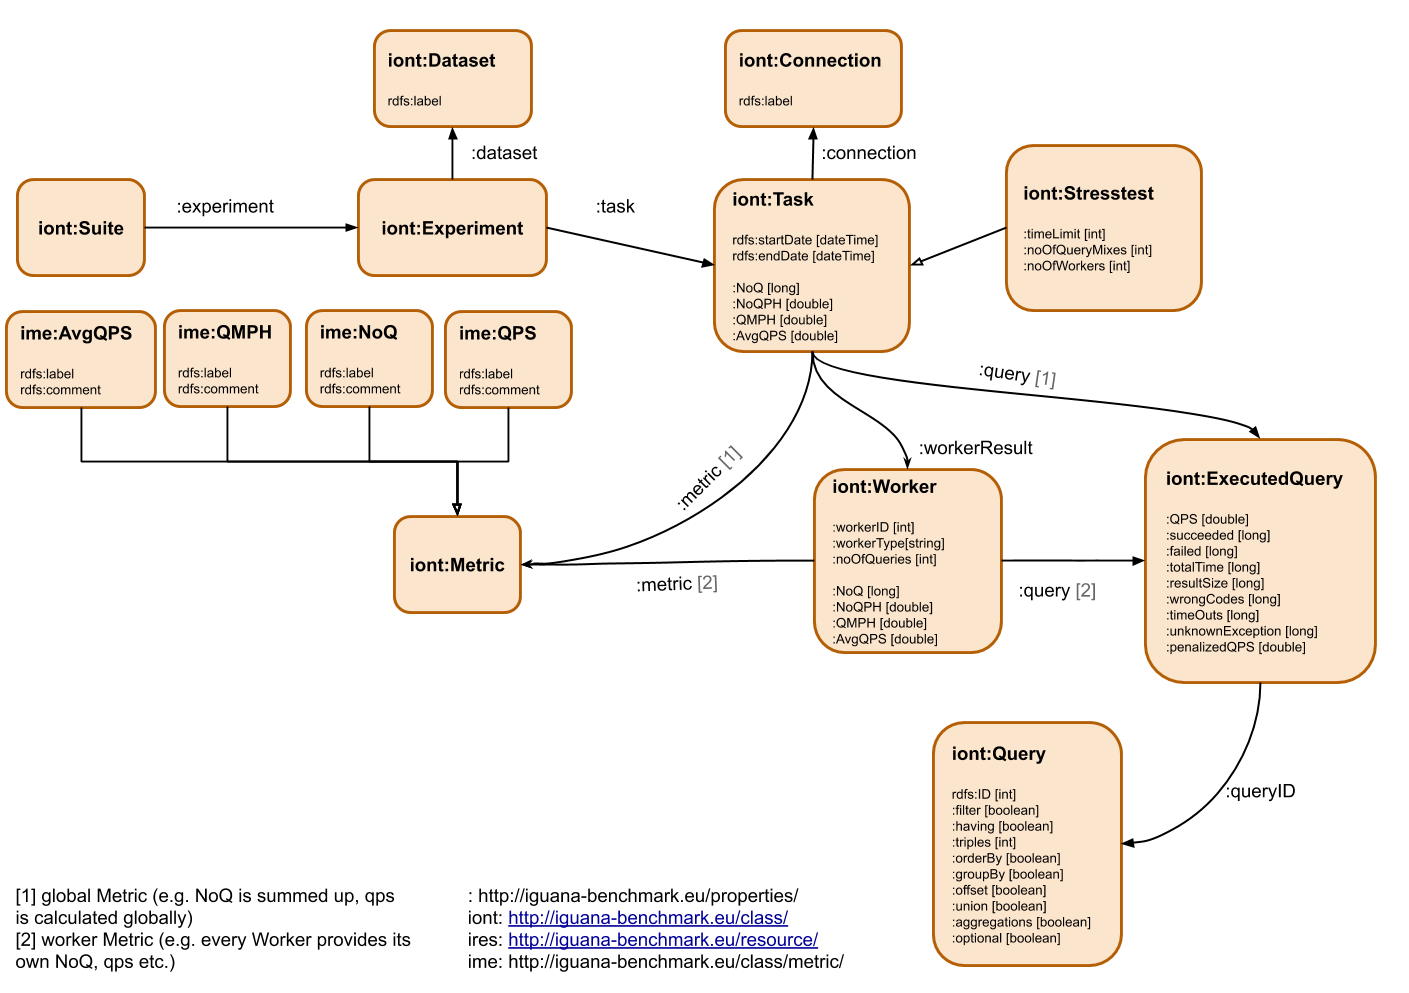
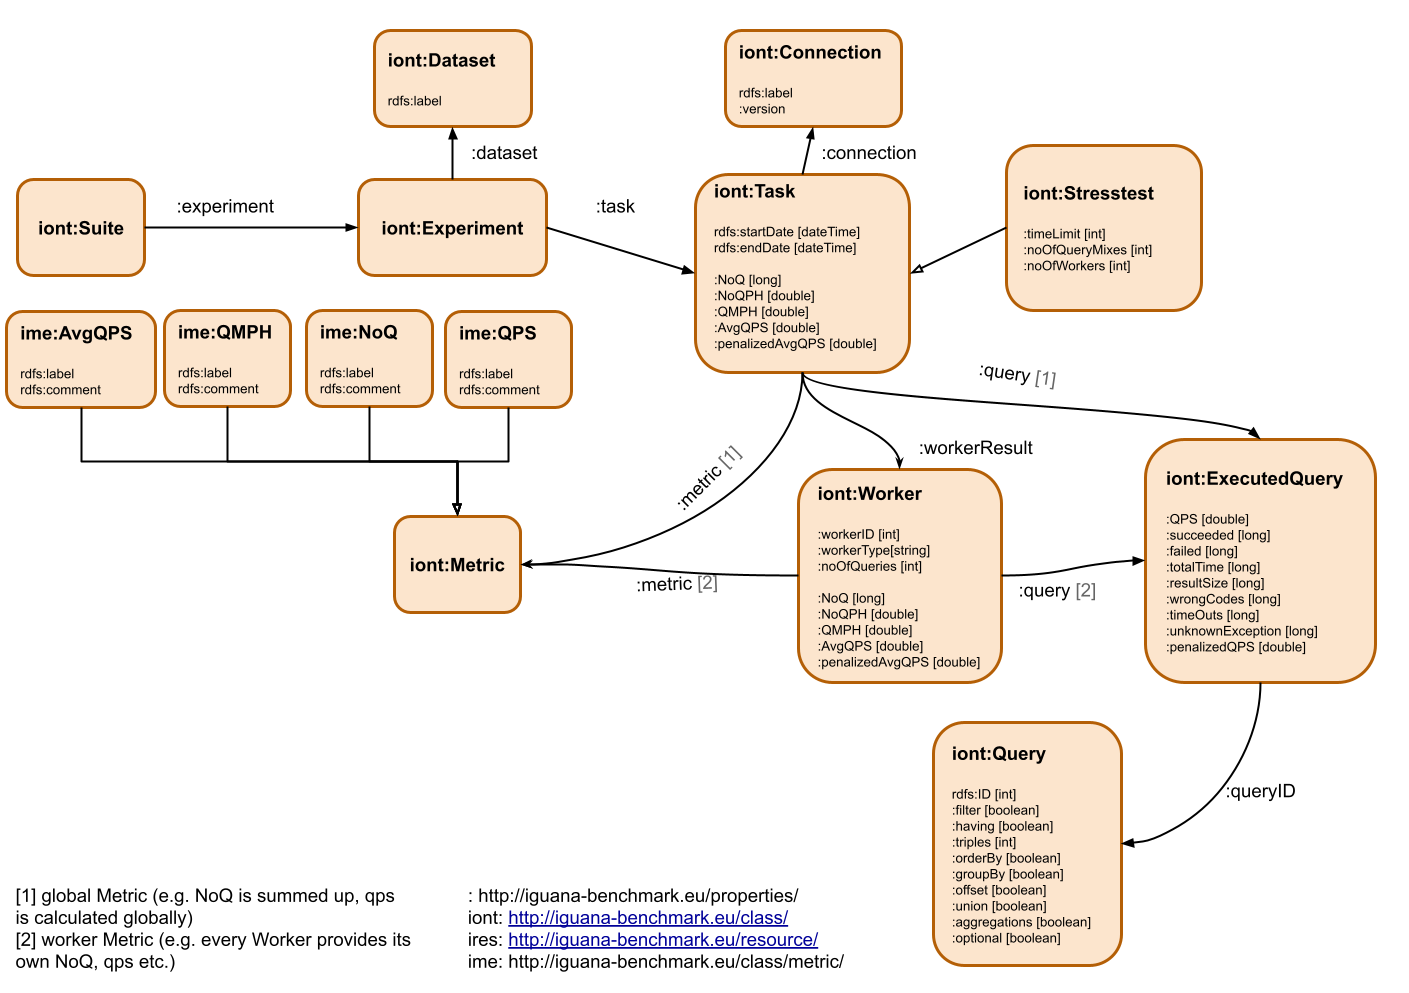
v3.3 prep, closing #139, #140

diff --git a/iguana.resultprocessor/src/main/java/org/aksw/iguana/rp/metrics/impl/AvgQPSMetric.java b/iguana.resultprocessor/src/main/java/org/aksw/iguana/rp/metrics/impl/AvgQPSMetric.java
@@ -1,6 +1,7 @@
 package org.aksw.iguana.rp.metrics.impl;
 
 import org.aksw.iguana.commons.annotation.Shorthand;
+import org.aksw.iguana.commons.constants.COMMON;
 import org.apache.jena.rdf.model.*;
 
 import java.util.HashMap;
@@ -19,6 +20,15 @@ public class AvgQPSMetric extends QPSMetric {
                 "Will calculate the overall average queries Per second. Further on it will save the totaltime of each query, the failure and the success");
     }
 
+    public AvgQPSMetric(Integer penalty) {
+        super(
+                "Average Queries Per Second",
+                "AvgQPS",
+                "Will calculate the overall average queries Per second. Further on it will save the totaltime of each query, the failure and the success");
+        this.penalty=penalty;
+    }
+
+
 
     @Override
     public void close() {
@@ -30,32 +40,45 @@ public class AvgQPSMetric extends QPSMetric {
         Model m = ModelFactory.createDefaultModel();
         Map<Object, Number[]> map = new HashMap<Object, Number[]>();
         Property property = getMetricProperty();
+        Property penalziedProp = ResourceFactory.createProperty(COMMON.PROP_BASE_URI+"penalized"+shortName);
         for(Properties key : dataContainer.keySet()){
             Properties value = dataContainer.get(key);
             Double avgQps=0.0;
+            Double penalizedAvgQps=0.0;
             for(Object queryID : value.keySet()){
                 Object[] resArr = (Object[]) value.get(queryID);
                 Double qps = (long)resArr[1]*1.0/((double)resArr[0]/1000.0);
-                map.putIfAbsent(queryID, new Number[]{Double.valueOf(0), Long.valueOf(0)});
+                Double penalizedQPS = (long)resArr[1]*1.0/((double)resArr[7]/1000.0);
+                map.putIfAbsent(queryID, new Number[]{Double.valueOf(0), Long.valueOf(0), Double.valueOf(0)});
 
                 Number[] current =map.get(queryID);
                 Long succ = (long)resArr[1]+(Long)current[1];
                 Double time = (double)resArr[0]+(Double)current[0];
-                map.put(queryID, new Number[]{time, succ});
+                Double penTime = (double)resArr[7]+(Double)current[2];
+                map.put(queryID, new Number[]{time, succ, penTime});
                 avgQps+=qps;
+                penalizedAvgQps+=penalizedQPS;
             }
             avgQps = avgQps/value.size();
+            penalizedAvgQps = penalizedAvgQps/value.size();
             Resource subject = getSubject(key);
             m.add(getConnectingStatement(subject));
             m.add(subject, property, ResourceFactory.createTypedLiteral(avgQps));
+            m.add(subject, penalziedProp, ResourceFactory.createTypedLiteral(penalizedAvgQps));
+
         }
         Double avgQps=0.0;
+        Double penalizedAvgQps=0.0;
         for(Object queryID : map.keySet()) {
             Double qps = (Long)map.get(queryID)[1]*1.0/((Double)map.get(queryID)[0]/1000.0);
+            Double penalizedQPS = (long)map.get(queryID)[1]*1.0/((double)map.get(queryID)[2]/1000.0);
             avgQps+=qps;
+            penalizedAvgQps+=penalizedQPS;
         }
         avgQps = avgQps/map.size();
+        penalizedAvgQps= penalizedAvgQps/map.size();
         m.add(getTaskResource(), property, ResourceFactory.createTypedLiteral(avgQps));
+        m.add(getTaskResource(), penalziedProp, ResourceFactory.createTypedLiteral(penalizedAvgQps));
         this.sendData(m);
         this.storageManager.commit();
     }

diff --git a/iguana.resultprocessor/src/main/java/org/aksw/iguana/rp/storage/TripleBasedStorage.java b/iguana.resultprocessor/src/main/java/org/aksw/iguana/rp/storage/TripleBasedStorage.java
@@ -58,8 +58,14 @@ public abstract class TripleBasedStorage implements Storage {
 		String suiteUrl = getUrlWithResourcePrefix(p, COMMON.SUITE_ID_KEY);
 		String expUrl = getUrlWithResourcePrefix(p, COMMON.EXPERIMENT_ID_KEY);
 		String taskUrl = getUrlWithResourcePrefix(p, COMMON.EXPERIMENT_TASK_ID_KEY);
+
 		String datasetUrl = getUrlWithResourcePrefix(p, COMMON.DATASET_ID_KEY);
-		String connUrl = getUrlWithResourcePrefix(p, COMMON.CONNECTION_ID_KEY);
+		String conName = p.getProperty(COMMON.CONNECTION_ID_KEY);
+		if(p.containsKey(COMMON.CONNECTION_VERSION_KEY)){
+			conName+="-"+p.getProperty(COMMON.CONNECTION_VERSION_KEY);
+		}
+		String connUrl = getUrlWithResourcePrefix(conName);
+
 		String actualTaskID = getUrlWithResourcePrefix(p, COMMON.EXPERIMENT_TASK_CLASS_ID_KEY);
 
 
@@ -77,6 +83,9 @@ public abstract class TripleBasedStorage implements Storage {
 		addExtraMetadata(p, taskUrl);
 		metricResults.add(metricResults.createResource(datasetUrl), RDFS.label, p.getProperty(COMMON.DATASET_ID_KEY));
 		metricResults.add(metricResults.createResource(connUrl), RDFS.label, p.getProperty(COMMON.CONNECTION_ID_KEY));
+		if(p.containsKey(COMMON.CONNECTION_VERSION_KEY)) {
+			metricResults.add(metricResults.createResource(connUrl), ResourceFactory.createProperty(getUrlWithPropertyPrefix("version")), p.getProperty(COMMON.CONNECTION_VERSION_KEY));
+		}
 
 		if(p.containsKey(COMMON.QUERY_STATS)) {
 			Model queryStats = (Model) p.get(COMMON.QUERY_STATS);

diff --git a/iguana.corecontroller/src/test/java/org/aksw/iguana/cc/utils/CLIProcessManagerTest.java b/iguana.corecontroller/src/test/java/org/aksw/iguana/cc/utils/CLIProcessManagerTest.java
@@ -26,7 +26,7 @@ public class CLIProcessManagerTest {
         //create
         Process p = CLIProcessManager.createProcess("echo \"abc\"; wait 100; echo \"t\nt\nabc: test ended suffix\"; wait 1m;");
         //count Lines until "test ended" occured
-        Thread.sleep(50);
+        Thread.sleep(100);
         assertTrue(CLIProcessManager.isReaderReady(p));
 
         assertEquals(3, CLIProcessManager.countLinesUntilStringOccurs(p, "test ended", "failed"));
@@ -42,7 +42,7 @@ public class CLIProcessManagerTest {
     public void countLinesFailTest() throws IOException, InterruptedException {
         //create
         Process p = CLIProcessManager.createProcess("echo \"abc\"; wait 100; echo \"abc: failed suffix\"; wait 1m;");
-        Thread.sleep(50);
+        Thread.sleep(100);
         assertTrue(CLIProcessManager.isReaderReady(p));
         //count Lines until "test ended" occured
         try{

diff --git a/iguana.corecontroller/src/main/java/org/aksw/iguana/cc/config/IguanaConfig.java b/iguana.corecontroller/src/main/java/org/aksw/iguana/cc/config/IguanaConfig.java
@@ -86,6 +86,7 @@ public class IguanaConfig {
 						LOGGER.info("Executing preScriptHook");
 						String execScript = preScriptHook.replace("{{dataset.name}}", dataset.getName())
 								.replace("{{connection}}", con.getName())
+								.replace("{{connection.version}}", con.getVersion("{{connection.version}}"))
 								.replace("{{taskID}}", taskID+"");
 						LOGGER.info("Finished preScriptHook");
 						if(dataset.getFile()!=null){
@@ -99,6 +100,7 @@ public class IguanaConfig {
 					if(postScriptHook!=null){
 						String execScript = postScriptHook.replace("{{dataset.name}}", dataset.getName())
 								.replace("{{connection}}", con.getName())
+								.replace("{{connection.version}}", con.getVersion("{{connection.version}}"))
 								.replace("{{taskID}}", taskID+"");
 						if(dataset.getFile()!=null){
 							execScript = execScript.replace("{{dataset.file}}", dataset.getFile());

diff --git a/iguana.resultprocessor/src/test/java/org/aksw/iguana/rp/metrics/impl/MetricTest.java b/iguana.resultprocessor/src/test/java/org/aksw/iguana/rp/metrics/impl/MetricTest.java
@@ -52,6 +52,8 @@ public class MetricTest {
 		//Test if 2000 will be used instead of provided 1000
 		testConfigs.add(new Object[] { new QPSMetric(2000), "src/test/resources/nt/qpspenaltytest2.nt", true});
 		testConfigs.add(new Object[] { new AvgQPSMetric(), "src/test/resources/nt/avgqpstest.nt", false});
+		testConfigs.add(new Object[] { new AvgQPSMetric(2000), "src/test/resources/nt/penaltyavgqpstest.nt", true});
+
 		testConfigs.add(new Object[] { new NoQMetric(), "src/test/resources/nt/noqtest.nt", false});
 		testConfigs.add(new Object[] { new QMPHMetric(), "src/test/resources/nt/qmphtest.nt", false});
 		testConfigs.add(new Object[] { new EachQueryMetric(), "src/test/resources/nt/eqtest.nt", false});

diff --git a/iguana.corecontroller/src/main/java/org/aksw/iguana/cc/config/elements/Connection.java b/iguana.corecontroller/src/main/java/org/aksw/iguana/cc/config/elements/Connection.java
@@ -19,6 +19,22 @@ public class Connection implements Serializable {
     private String endpoint;
     @JsonProperty(required = false)
     private String updateEndpoint;
+    @JsonProperty(required = false)
+    private String version;
+
+    public String getVersion() {
+        return version;
+    }
+
+    public String getVersion(String defaultValue) {
+        if(version!=null)
+            return version;
+        return defaultValue;
+    }
+
+    public void setVersion(String version) {
+        this.version = version;
+    }
 
     public String getName() {
         return name;

diff --git a/iguana.corecontroller/src/main/java/org/aksw/iguana/cc/tasks/AbstractTask.java b/iguana.corecontroller/src/main/java/org/aksw/iguana/cc/tasks/AbstractTask.java
@@ -96,6 +96,9 @@ public abstract class AbstractTask implements Task {
 		metaData.setProperty(COMMON.SUITE_ID_KEY, this.suiteID);
 		metaData.setProperty(COMMON.DATASET_ID_KEY, this.datasetID);
 		metaData.setProperty(COMMON.CONNECTION_ID_KEY, this.conID);
+		if(this.con.getVersion()!=null) {
+			metaData.setProperty(COMMON.CONNECTION_VERSION_KEY, this.con.getVersion());
+		}
 		String className=this.getClass().getCanonicalName();
 		if(this.getClass().isAnnotationPresent(Shorthand.class)){
 			className = this.getClass().getAnnotation(Shorthand.class).value();

diff --git a/iguana.commons/src/main/java/org/aksw/iguana/commons/constants/COMMON.java b/iguana.commons/src/main/java/org/aksw/iguana/commons/constants/COMMON.java
@@ -108,4 +108,5 @@ public class COMMON {
 	public static final String PROP_BASE_URI = BASE_URI+"/properties/";
 	public static final String CLASS_BASE_URI = BASE_URI+"/class/";
     public static final String PENALTY = "penalty";
+    public static final String CONNECTION_VERSION_KEY = "connectionVersion";
 }
